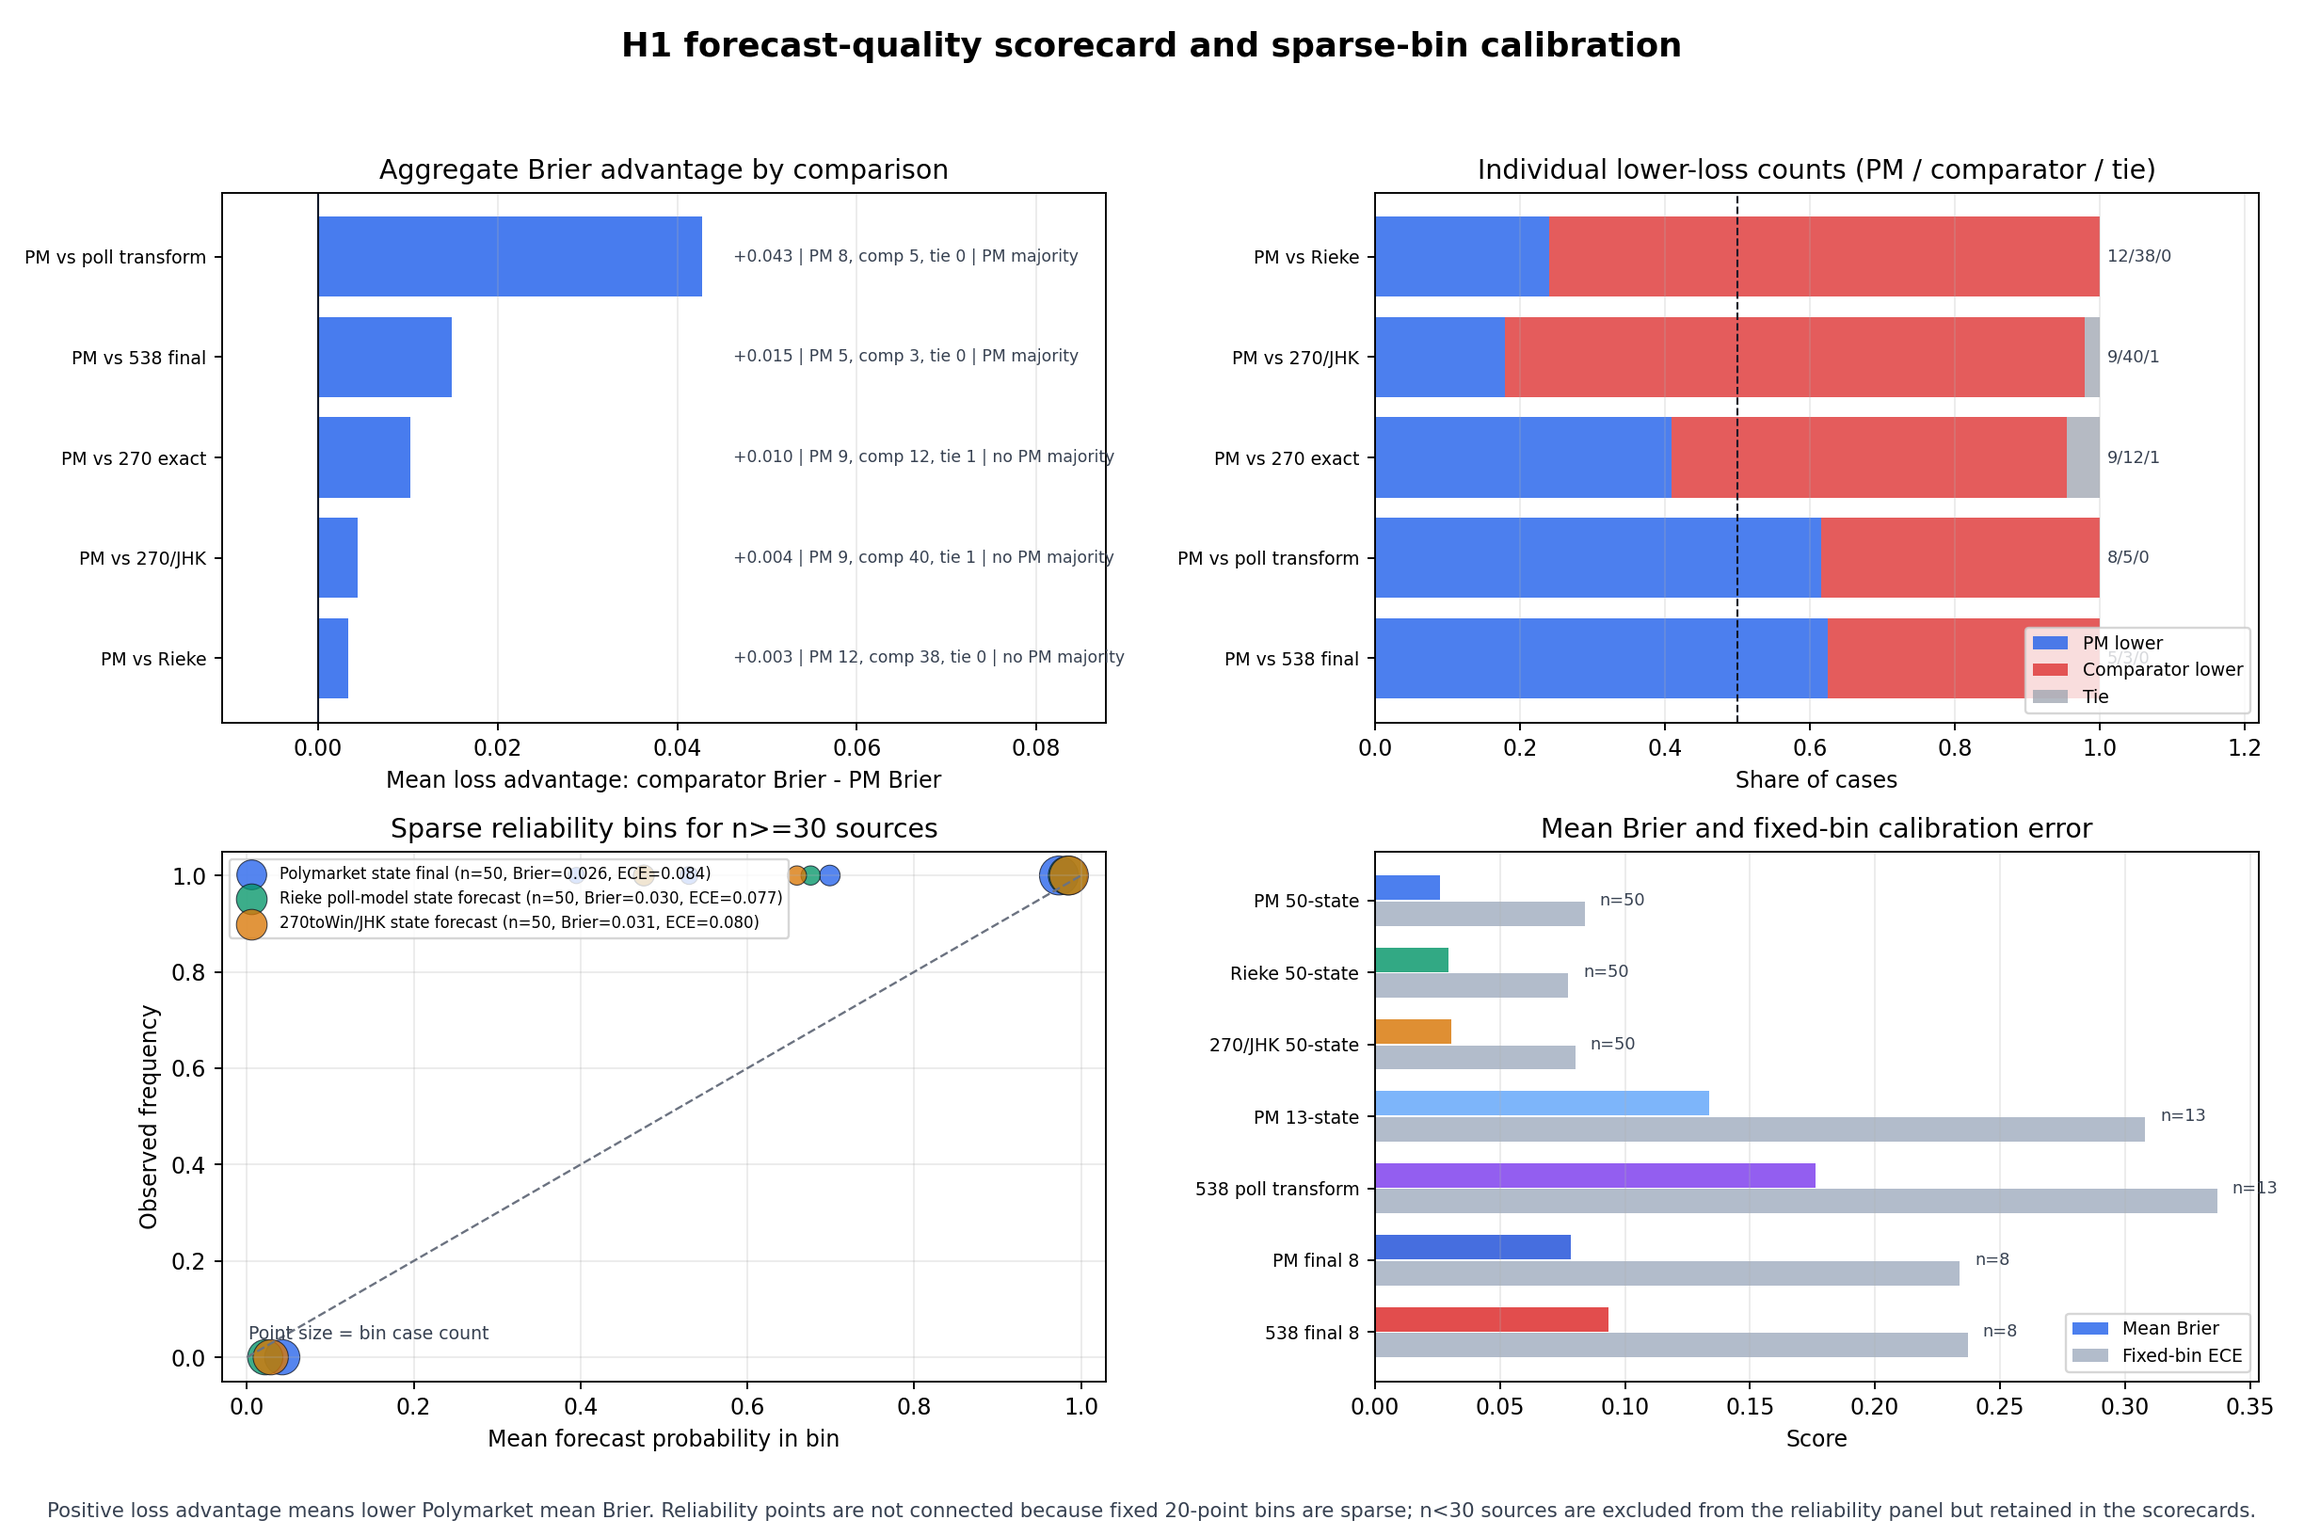
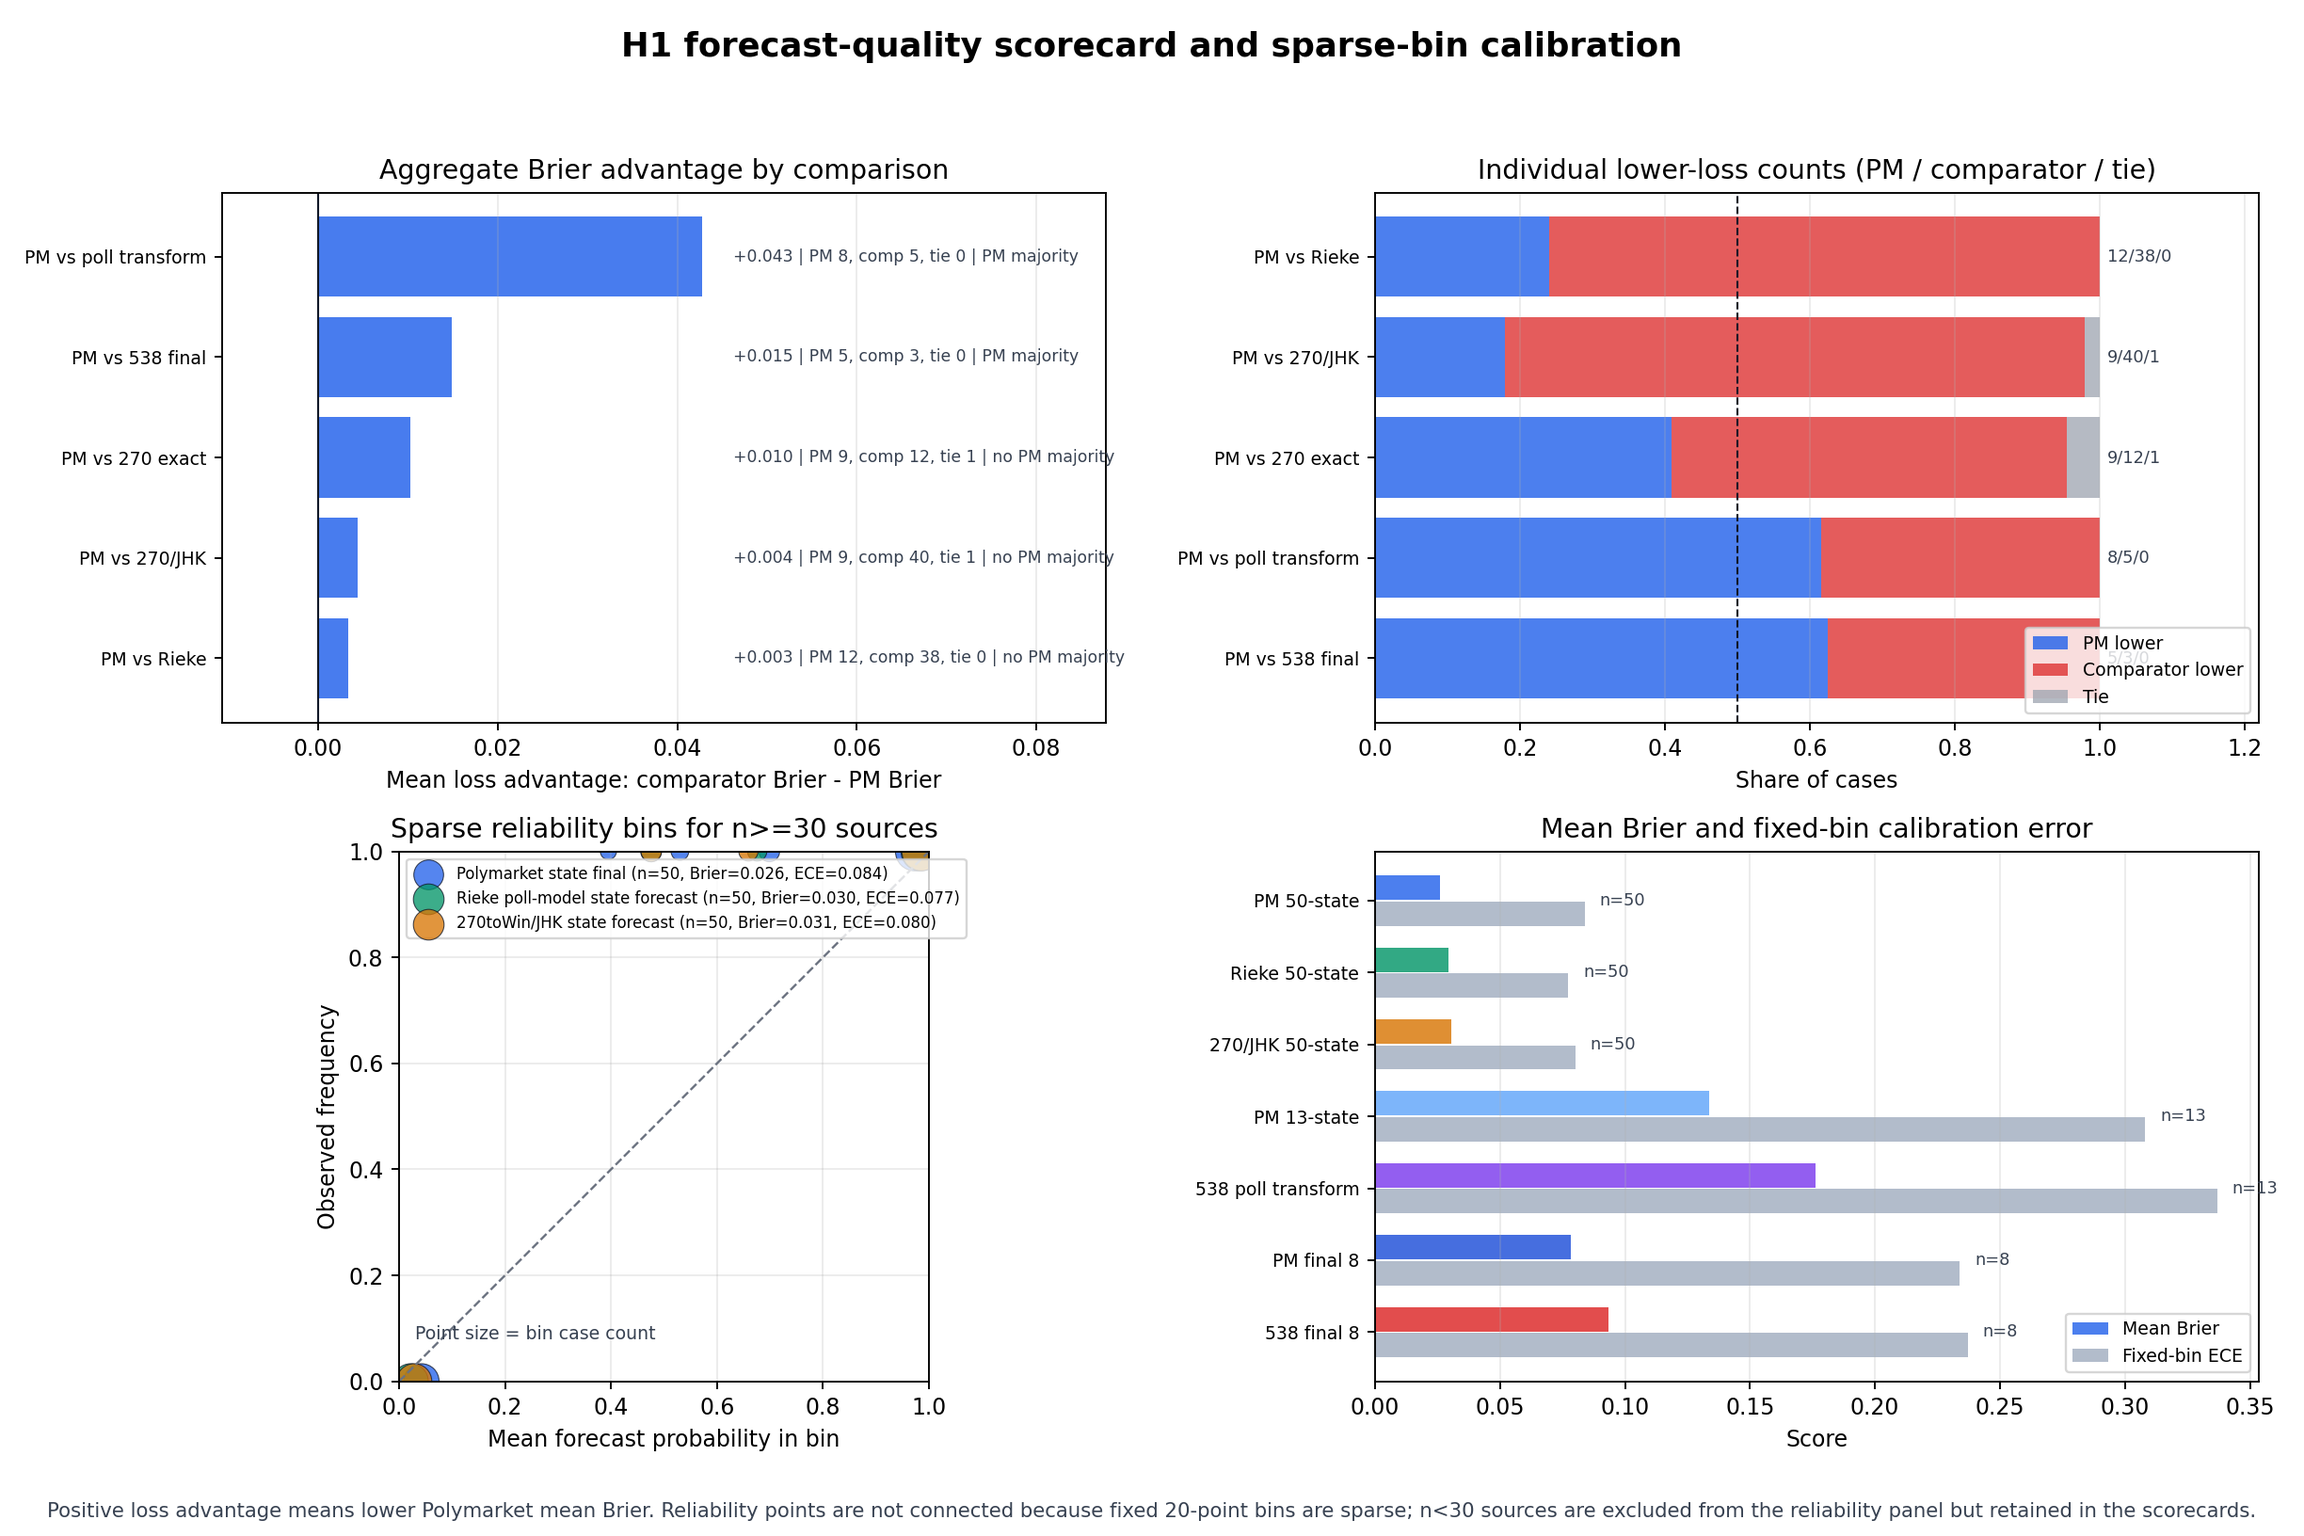
analysis: improve figure rendering quality

diff --git a/operations/analysis/monitor_v2_polymarket_rolling_figures.py b/operations/analysis/monitor_v2_polymarket_rolling_figures.py
@@ -28,6 +28,16 @@ ROLLING_FIGURE_OUTPUT = RESULTS_DIR / "monitor_v2_polymarket_rolling_history.png
 ROLLING_FIGURE_METADATA_OUTPUT = (
     RESULTS_DIR / "monitor_v2_polymarket_rolling_history_figure_metadata.json"
 )
+ROLLING_FIGURE_SIZE_INCHES: tuple[float, float] = (12.0, 7.0)
+MAX_WALLET_BUCKET_LABELS = 6
+WALLET_BUCKET_LABEL_OFFSETS_POINTS: tuple[tuple[int, int], ...] = (
+    (-18, 8),
+    (18, 18),
+    (-24, 28),
+    (24, 38),
+    (-12, 48),
+    (12, 58),
+)
 
 
 @dataclass(frozen=True)
@@ -103,7 +113,12 @@ def generate_polymarket_rolling_history_figure(
     wallet_view["short_question"] = wallet_view["question"].fillna(wallet_view["market_id"]).map(_shorten)
 
     figure_path.parent.mkdir(parents=True, exist_ok=True)
-    fig, axes = plt.subplots(2, 1, figsize=(12, 7), constrained_layout=True)
+    fig, axes = plt.subplots(
+        2,
+        1,
+        figsize=ROLLING_FIGURE_SIZE_INCHES,
+        constrained_layout=True,
+    )
 
     plotted = 0
     for label, group in market_view.groupby("series_label", sort=True):
@@ -141,14 +156,29 @@ def generate_polymarket_rolling_history_figure(
     )
     axes[1].set_ylabel("Observed amount USD")
     axes[1].set_title("Aggregate public trade activity by closed bucket")
-    for row in amount_by_bucket.itertuples():
-        axes[1].text(
-            row.timestamp_utc,
-            float(row.total_observed_amount_usd),
+    wallet_label_rows = _wallet_label_rows(amount_by_bucket)
+    max_amount = float(amount_by_bucket["total_observed_amount_usd"].max())
+    axes[1].set_ylim(0, max(1.0, max_amount * 1.24))
+    label_draw_rows = wallet_label_rows.sort_values(
+        ["total_observed_amount_usd", "timestamp_utc"],
+        ascending=[False, True],
+    ).reset_index(drop=True)
+    for label_rank, row in enumerate(label_draw_rows.itertuples()):
+        x_offset, y_offset = WALLET_BUCKET_LABEL_OFFSETS_POINTS[label_rank]
+        axes[1].annotate(
             f"wallets={int(row.active_wallets)}",
+            xy=(row.timestamp_utc, float(row.total_observed_amount_usd)),
+            xytext=(x_offset, y_offset),
+            textcoords="offset points",
             ha="center",
             va="bottom",
-            fontsize=8,
+            fontsize=7.5,
+            arrowprops={
+                "arrowstyle": "-",
+                "color": "#6b7280",
+                "linewidth": 0.45,
+                "alpha": 0.72,
+            },
         )
     for axis in axes:
         axis.tick_params(axis="x", rotation=20)
@@ -181,6 +211,18 @@ def generate_polymarket_rolling_history_figure(
             "wallet_snapshot_count": int(len(wallets)),
             "contains_wallet_addresses": False,
             "contains_order_instructions": False,
+            "figure_width_inches": ROLLING_FIGURE_SIZE_INCHES[0],
+            "figure_height_inches": ROLLING_FIGURE_SIZE_INCHES[1],
+            "figure_aspect_ratio": (
+                ROLLING_FIGURE_SIZE_INCHES[0] / ROLLING_FIGURE_SIZE_INCHES[1]
+            ),
+            "wallet_bucket_label_rule": (
+                "top_6_by_total_observed_amount_usd_tie_timestamp_ascending"
+            ),
+            "wallet_bucket_label_layout": "rank_staggered_offsets_points",
+            "wallet_bucket_label_count": int(len(wallet_label_rows)),
+            "wallet_bucket_label_max_count": MAX_WALLET_BUCKET_LABELS,
+            "wallet_bucket_labels": _wallet_label_metadata(wallet_label_rows),
         },
         "limitations": {
             "read_only_history_only": True,
@@ -255,6 +297,41 @@ def _market_label(row: pd.Series) -> str:
     question = _shorten(str(row.get("question") or row["market_id"]))
     token_id = str(row["token_id"])
     return f"{question} | {token_id[:6]}"
+
+
+def _wallet_label_rows(
+    amount_by_bucket: pd.DataFrame,
+    *,
+    max_labels: int = MAX_WALLET_BUCKET_LABELS,
+) -> pd.DataFrame:
+    """Return deterministic bar-label rows for the largest wallet buckets."""
+
+    if max_labels < 1 or amount_by_bucket.empty:
+        return amount_by_bucket.iloc[0:0].copy()
+    return (
+        amount_by_bucket.sort_values(
+            ["total_observed_amount_usd", "timestamp_utc"],
+            ascending=[False, True],
+        )
+        .head(max_labels)
+        .sort_values("timestamp_utc")
+        .reset_index(drop=True)
+    )
+
+
+def _wallet_label_metadata(label_rows: pd.DataFrame) -> list[dict[str, float | int | str]]:
+    """Return bounded metadata for the rendered wallet bucket labels."""
+
+    labels: list[dict[str, float | int | str]] = []
+    for row in label_rows.itertuples():
+        labels.append(
+            {
+                "timestamp_utc": row.timestamp_utc.isoformat(),
+                "total_observed_amount_usd": float(row.total_observed_amount_usd),
+                "active_wallets": int(row.active_wallets),
+            }
+        )
+    return labels
 
 
 def _shorten(value: str, max_length: int = 38) -> str:

diff --git a/tests/test_polymarket_rolling_history.py b/tests/test_polymarket_rolling_history.py
@@ -5,6 +5,10 @@ from pathlib import Path
 
 import pandas as pd
 
+from operations.analysis.monitor_v2_polymarket_rolling_figures import (
+    MAX_WALLET_BUCKET_LABELS,
+    generate_polymarket_rolling_history_figure,
+)
 from operations.collectors.polymarket_rolling_history import (
     collect_polymarket_rolling_history,
     main,
@@ -74,6 +78,80 @@ def test_collect_mock_rolling_history_accepts_curated_watchlist(tmp_path: Path) 
     assert watchlist.iloc[0]["watch_id"] == "accepted_001"
     assert metadata["method"]["uses_curated_watchlist"] is True
     assert metadata["method"]["curated_watchlist_path"] == str(curated_path)
+
+
+def test_rolling_history_figure_labels_only_top_six_wallet_buckets(tmp_path: Path) -> None:
+    watchlist_path = tmp_path / "watchlist.csv"
+    market_path = tmp_path / "market.csv"
+    wallet_path = tmp_path / "wallet.csv"
+    figure_path = tmp_path / "rolling.png"
+    metadata_path = tmp_path / "figure_metadata.json"
+    scoring_metadata_path = tmp_path / "scoring_metadata.json"
+    timestamps = pd.date_range("2026-05-22T12:00:00Z", periods=8, freq="15min")
+    amounts = [10.0, 70.0, 30.0, 90.0, 20.0, 80.0, 40.0, 60.0]
+
+    pd.DataFrame(
+        [
+            {
+                "market_id": "market_001",
+                "question": "Fixture market with repeated rolling buckets",
+            }
+        ]
+    ).to_csv(watchlist_path, index=False)
+    pd.DataFrame(
+        [
+            {
+                "market_id": "market_001",
+                "token_id": "token_yes",
+                "bucket_end_utc": timestamp.isoformat(),
+                "midpoint": 0.45 + index * 0.01,
+            }
+            for index, timestamp in enumerate(timestamps)
+        ]
+    ).to_csv(market_path, index=False)
+    pd.DataFrame(
+        [
+            {
+                "market_id": "market_001",
+                "bucket_end_utc": timestamp.isoformat(),
+                "total_observed_amount_usd": amount,
+                "active_wallets": index + 1,
+            }
+            for index, (timestamp, amount) in enumerate(zip(timestamps, amounts))
+        ]
+    ).to_csv(wallet_path, index=False)
+    scoring_metadata_path.write_text(
+        json.dumps({"method": {"baseline_readiness": "fixture"}}),
+        encoding="utf-8",
+    )
+
+    generate_polymarket_rolling_history_figure(
+        watchlist_path=watchlist_path,
+        market_snapshots_path=market_path,
+        wallet_tier_snapshots_path=wallet_path,
+        scoring_metadata_path=scoring_metadata_path,
+        figure_path=figure_path,
+        metadata_path=metadata_path,
+    )
+
+    metadata = json.loads(metadata_path.read_text(encoding="utf-8"))
+    labels = metadata["outputs"]["wallet_bucket_labels"]
+    labeled_amounts = [label["total_observed_amount_usd"] for label in labels]
+
+    assert figure_path.exists()
+    assert metadata["outputs"]["wallet_bucket_label_count"] == MAX_WALLET_BUCKET_LABELS
+    assert metadata["outputs"]["wallet_bucket_label_max_count"] == MAX_WALLET_BUCKET_LABELS
+    assert metadata["outputs"]["wallet_bucket_label_rule"] == (
+        "top_6_by_total_observed_amount_usd_tie_timestamp_ascending"
+    )
+    assert metadata["outputs"]["wallet_bucket_label_layout"] == (
+        "rank_staggered_offsets_points"
+    )
+    assert set(labeled_amounts) == {30.0, 40.0, 60.0, 70.0, 80.0, 90.0}
+    assert 10.0 not in labeled_amounts
+    assert 20.0 not in labeled_amounts
+    assert metadata["outputs"]["figure_aspect_ratio"] == 12.0 / 7.0
+    assert metadata["outputs"]["contains_wallet_addresses"] is False
 
 
 def test_rolling_history_rejects_zero_samples(tmp_path: Path) -> None:

diff --git a/tests/test_h1_calibration_diagnostic.py b/tests/test_h1_calibration_diagnostic.py
@@ -4,6 +4,7 @@ import json
 from pathlib import Path
 
 import matplotlib.image as mpimg
+import matplotlib.pyplot as plt
 import pandas as pd
 import pytest
 
@@ -14,6 +15,7 @@ from operations.analysis.h1_calibration_diagnostic import (
     build_pairwise_summary,
     generate_h1_calibration_diagnostic_outputs,
     validate_forecast_cases,
+    _plot_reliability_panel,
 )
 
 
@@ -82,6 +84,10 @@ def test_generate_h1_calibration_diagnostic_outputs(tmp_path: Path) -> None:
     assert metadata["method"]["reliability_panel_min_case_count"] == 30
     assert metadata["outputs"]["h1_goal_completion_status"] == "not_proven"
     assert metadata["outputs"]["contains_wallet_addresses"] is False
+    assert metadata["outputs"]["figure_aspect_ratio"] == 14.4 / 9.6
+    assert metadata["outputs"]["reliability_panel_x_limits"] == [0.0, 1.0]
+    assert metadata["outputs"]["reliability_panel_y_limits"] == [0.0, 1.0]
+    assert metadata["outputs"]["reliability_panel_aspect"] == "equal"
     assert len(cases) == 22
     assert len(summary) == 7
     assert len(pairwise) == 5
@@ -100,6 +106,37 @@ def test_validate_forecast_cases_rejects_forbidden_raw_trade_columns() -> None:
 
     with pytest.raises(ValueError, match="forbidden raw-trade"):
         validate_forecast_cases(cases)
+
+
+def test_reliability_panel_uses_square_probability_axes() -> None:
+    forecast_cases = validate_forecast_cases(
+        build_forecast_cases(
+            rieke_cases=_rieke_cases(),
+            two_seventy_cases=_two_seventy_cases(),
+            state_poll_cases=_state_poll_cases(),
+            final_snapshot_cases=_final_snapshot_cases(),
+        )
+    )
+    bins = build_calibration_bins(forecast_cases, bin_count=5)
+    summary = build_calibration_summary(forecast_cases, bins)
+    fig, ax = plt.subplots()
+
+    _plot_reliability_panel(
+        ax=ax,
+        calibration_bins=bins,
+        summary=summary,
+        source_ids=["polymarket_state_final_50", "rieke_state_final_50"],
+        colors={
+            "polymarket_state_final_50": "#2563eb",
+            "rieke_state_final_50": "#059669",
+        },
+        title="Fixture reliability panel",
+    )
+
+    assert ax.get_xlim() == pytest.approx((0.0, 1.0))
+    assert ax.get_ylim() == pytest.approx((0.0, 1.0))
+    assert float(ax.get_aspect()) == pytest.approx(1.0)
+    plt.close(fig)
 
 
 def _rieke_cases() -> pd.DataFrame:

diff --git a/operations/analysis/h1_calibration_diagnostic.py b/operations/analysis/h1_calibration_diagnostic.py
@@ -38,6 +38,7 @@ FIGURE_OUTPUT = RESULTS_DIR / "h1_calibration_diagnostic.png"
 METADATA_OUTPUT = RESULTS_DIR / "h1_calibration_diagnostic_metadata.json"
 
 BIN_COUNT = 5
+FIGURE_SIZE_INCHES: tuple[float, float] = (14.4, 9.6)
 
 CASE_COLUMNS: tuple[str, ...] = (
     "case_set_id",
@@ -744,7 +745,7 @@ def write_calibration_figure(
         "polymarket_final_snapshot_8": "#1d4ed8",
         "fivethirtyeight_final_snapshot_8": "#dc2626",
     }
-    fig, axes = plt.subplots(2, 2, figsize=(14.4, 9.6))
+    fig, axes = plt.subplots(2, 2, figsize=FIGURE_SIZE_INCHES)
     fig.suptitle(
         "H1 forecast-quality scorecard and sparse-bin calibration",
         fontsize=15,
@@ -841,6 +842,12 @@ def build_metadata(
             "h1_goal_completion_status": "not_proven",
             "contains_wallet_addresses": False,
             "contains_order_instructions": False,
+            "figure_width_inches": FIGURE_SIZE_INCHES[0],
+            "figure_height_inches": FIGURE_SIZE_INCHES[1],
+            "figure_aspect_ratio": FIGURE_SIZE_INCHES[0] / FIGURE_SIZE_INCHES[1],
+            "reliability_panel_x_limits": [0.0, 1.0],
+            "reliability_panel_y_limits": [0.0, 1.0],
+            "reliability_panel_aspect": "equal",
         },
         "source_paths": {
             "rieke_case_input": str(rieke_case_input),
@@ -994,8 +1001,9 @@ def _plot_reliability_panel(
     ax.set_title(title)
     ax.set_xlabel("Mean forecast probability in bin")
     ax.set_ylabel("Observed frequency")
-    ax.set_xlim(-0.03, 1.03)
-    ax.set_ylim(-0.05, 1.05)
+    ax.set_xlim(0, 1)
+    ax.set_ylim(0, 1)
+    ax.set_aspect("equal")
     ax.grid(True, alpha=0.25)
     ax.legend(fontsize=7.0, loc="upper left")
     ax.text(
